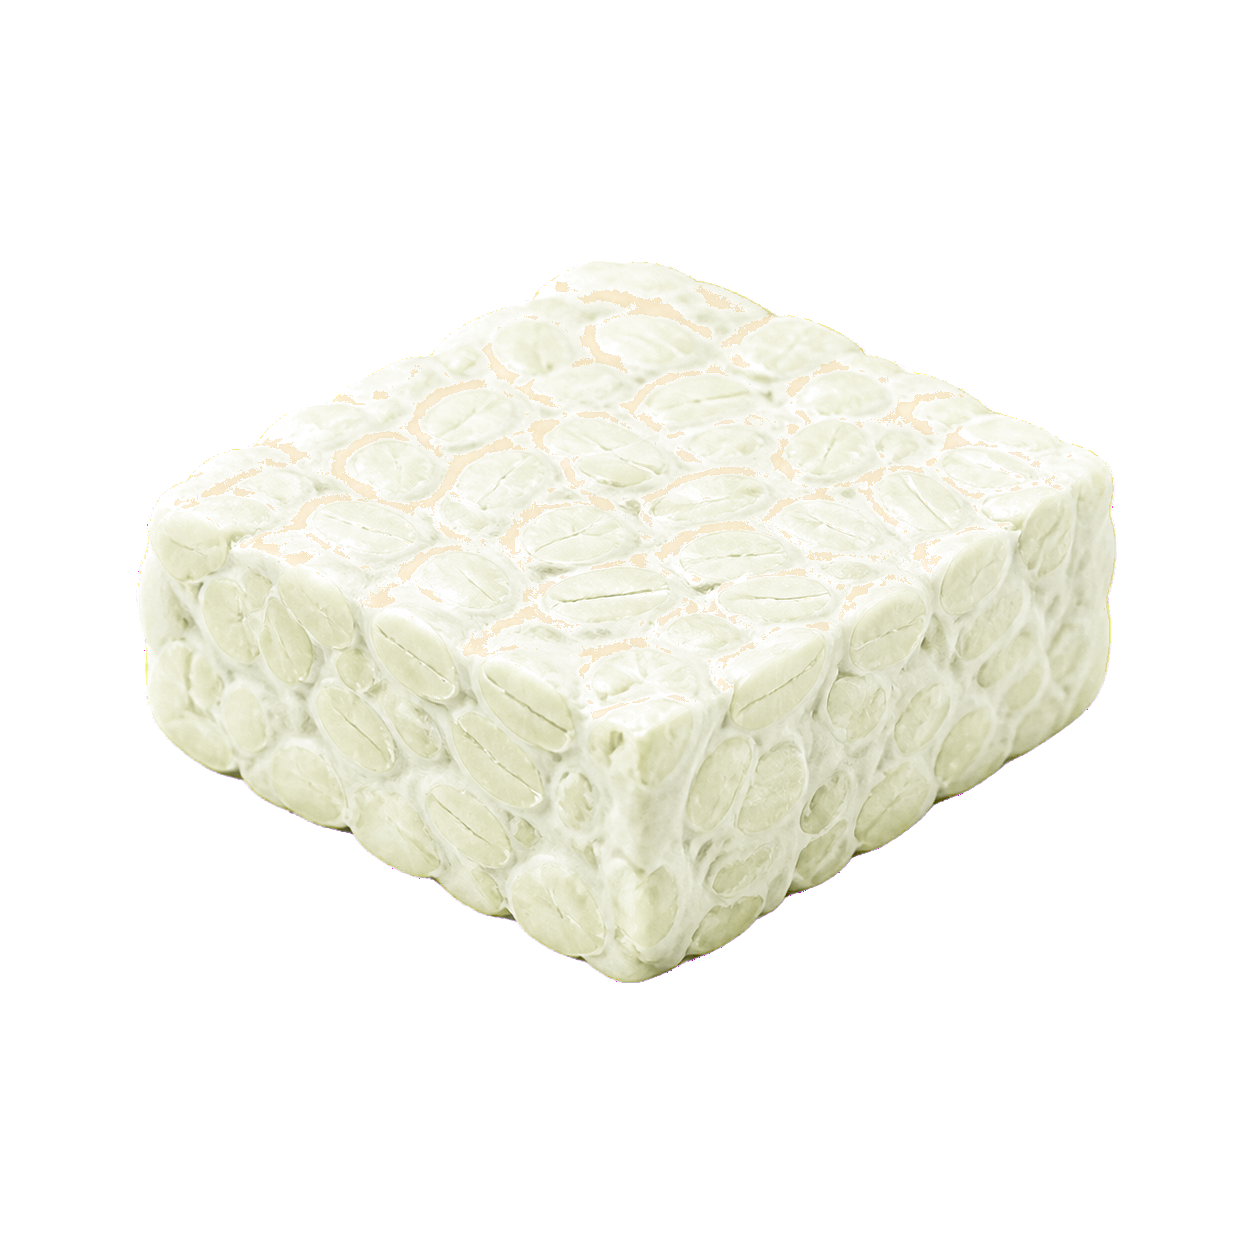
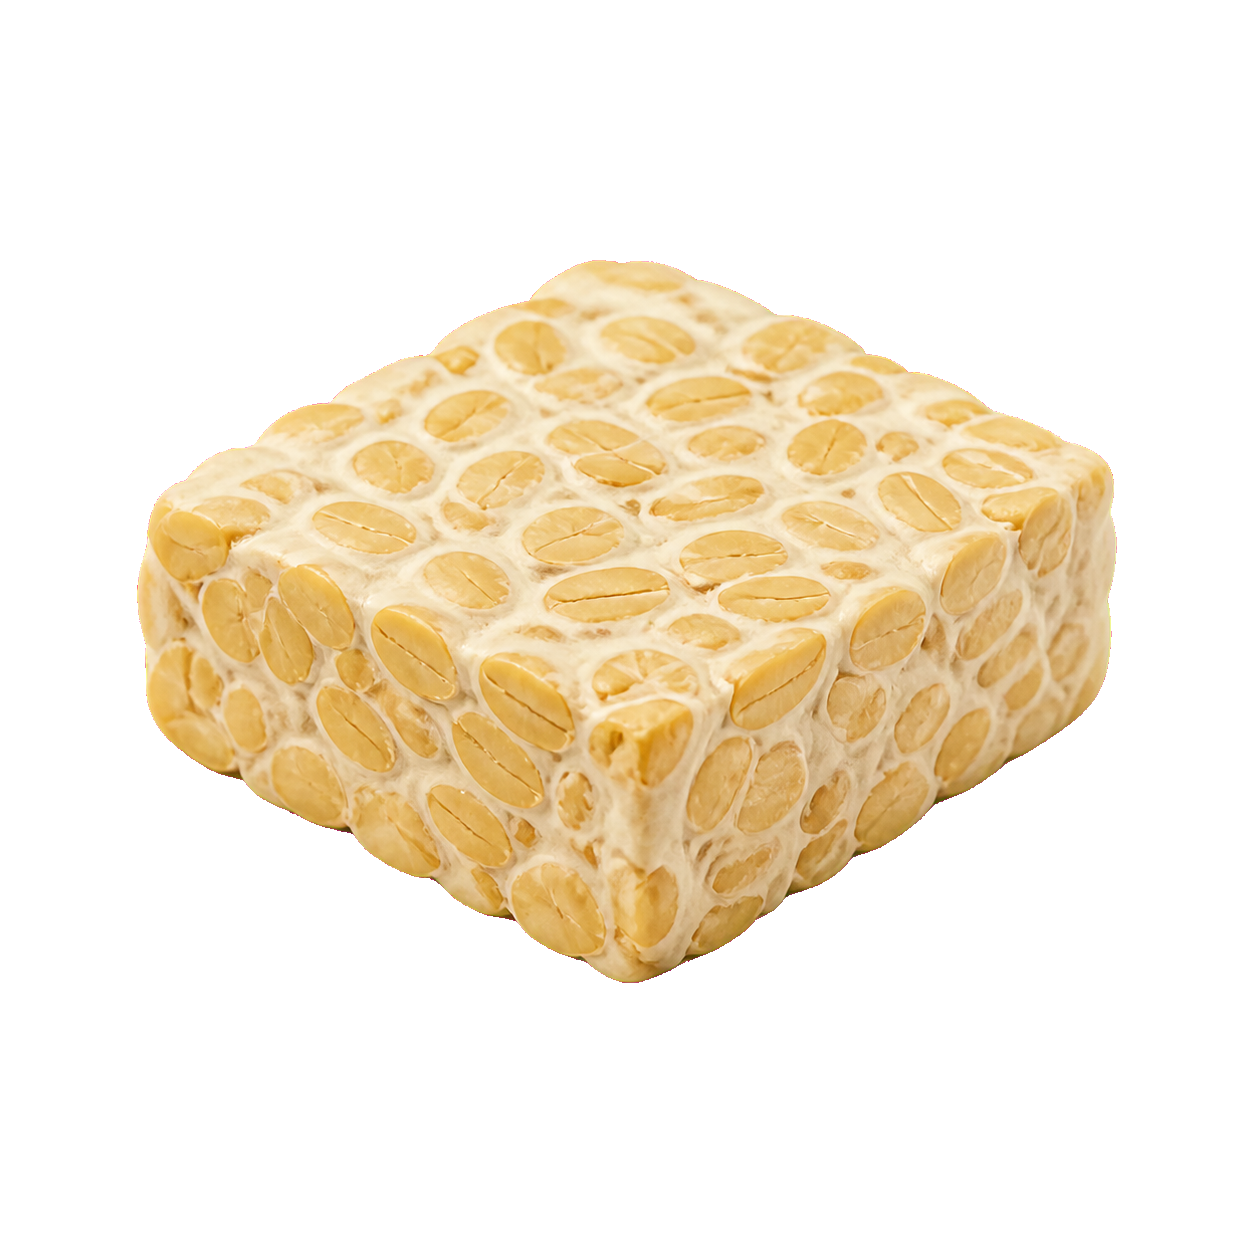
fix: repair transparent Tempe thumbnail

Changed region(s): [[0.0933, 0.1866, 0.9019, 0.8086]]

diff --git a/Design/GeneratedUI/Proposals/my-food_GENERATED_UI_PROPOSAL.md b/Design/GeneratedUI/Proposals/my-food_GENERATED_UI_PROPOSAL.md
@@ -53,8 +53,12 @@ Rows are content-driven with a `72 pt` default minimum, adaptive wrapping, a dec
 
 These are decorative row thumbnails scoped to approximately `48–64 pt`, not detail heroes. The image-generation chroma background is not part of the delivered assets; each listed PNG has an alpha channel and transparent outer background.
 
+`food_thumbnail_tempe_transparent.png` was repaired after the original chroma-removal pass incorrectly removed cream-white pixels inside the tempeh texture. The runtime asset now uses a conservative border-connected magenta mask: only the saturated chroma region connected to the outer canvas becomes transparent, while the complete soybean/mycelium texture remains opaque. Validate this asset at its intended `48–64 pt` row size on both Light and Dark surfaces; do not crop the Tempe image embedded in an older screen bitmap.
+
 ## Review notes
 
 The first populated draft placed the Alpukat row beneath the bottom navigation and omitted the complete safe-area shell. After targeted spacing/safe-area repairs, v04 shows the full final row, a clear canvas separation, the rounded native tab surface, and home indicator. A different context-clean reviewer compared v04 with the specification, proposal, approved Today shell, and superseded baseline, then returned `Verdict: No material findings.`
+
+The canonical bitmap predates the corrected Tempe alpha matte. Treat its layout as authoritative but supply the row from the repaired standalone runtime asset documented above.
 
 Judge screens at normal iPhone viewing size and thumbnails at their intended row size. Material blockers include clipped content behind the tab bar, wrong exact copy/data, inaccessible ordinary text, broken navigation hierarchy, or prohibited feature drift. Microscopic source irregularities invisible at intended size are not blockers.

diff --git a/docs/PROJECT_JOURNAL.md b/docs/PROJECT_JOURNAL.md
@@ -92,3 +92,7 @@ The owner replaced the earlier four-step Quick Add direction with one grouped, s
 Estimate Review's canonical file is `Design/GeneratedUI/Screens/estimate-review_available_light_v01.png`. It visibly distinguishes user text, `Interpretasi Fresh`, deterministic-rule provenance, confidence, the non-safety disclaimer, and the explicit first save action. Its context-clean reviewer returned `Verdict: No material findings.`
 
 The integrated Quick Add/Estimate Review gate required two reviewer cycles. The first found that the active Estimate Review generation prompt still requested multiple competing state bitmaps. After reconciling Prompt 05 and adjacent future-screen output contracts with DEC-015, a different context-clean reviewer returned `Verdict: No material findings.` No runtime Swift/Xcode behavior changed in this design-only handoff.
+
+## 2026-08-13 — Tempe thumbnail alpha repaired
+
+The first transparent Tempe export had visible holes in its cream-white soybean/mycelium texture because the chroma-removal algorithm treated some internal light pixels as background. The intact magenta-source image was reprocessed conservatively: background removal is now limited to saturated magenta pixels connected to the outer canvas border. The project keeps the same asset path, `Design/GeneratedUI/Illustrations/food_thumbnail_tempe_transparent.png`, so future My Food implementation automatically consumes the repaired image. It is scoped to `48–64 pt` row usage and was checked on Fresh Light and Dark surfaces at `64 pt`.
